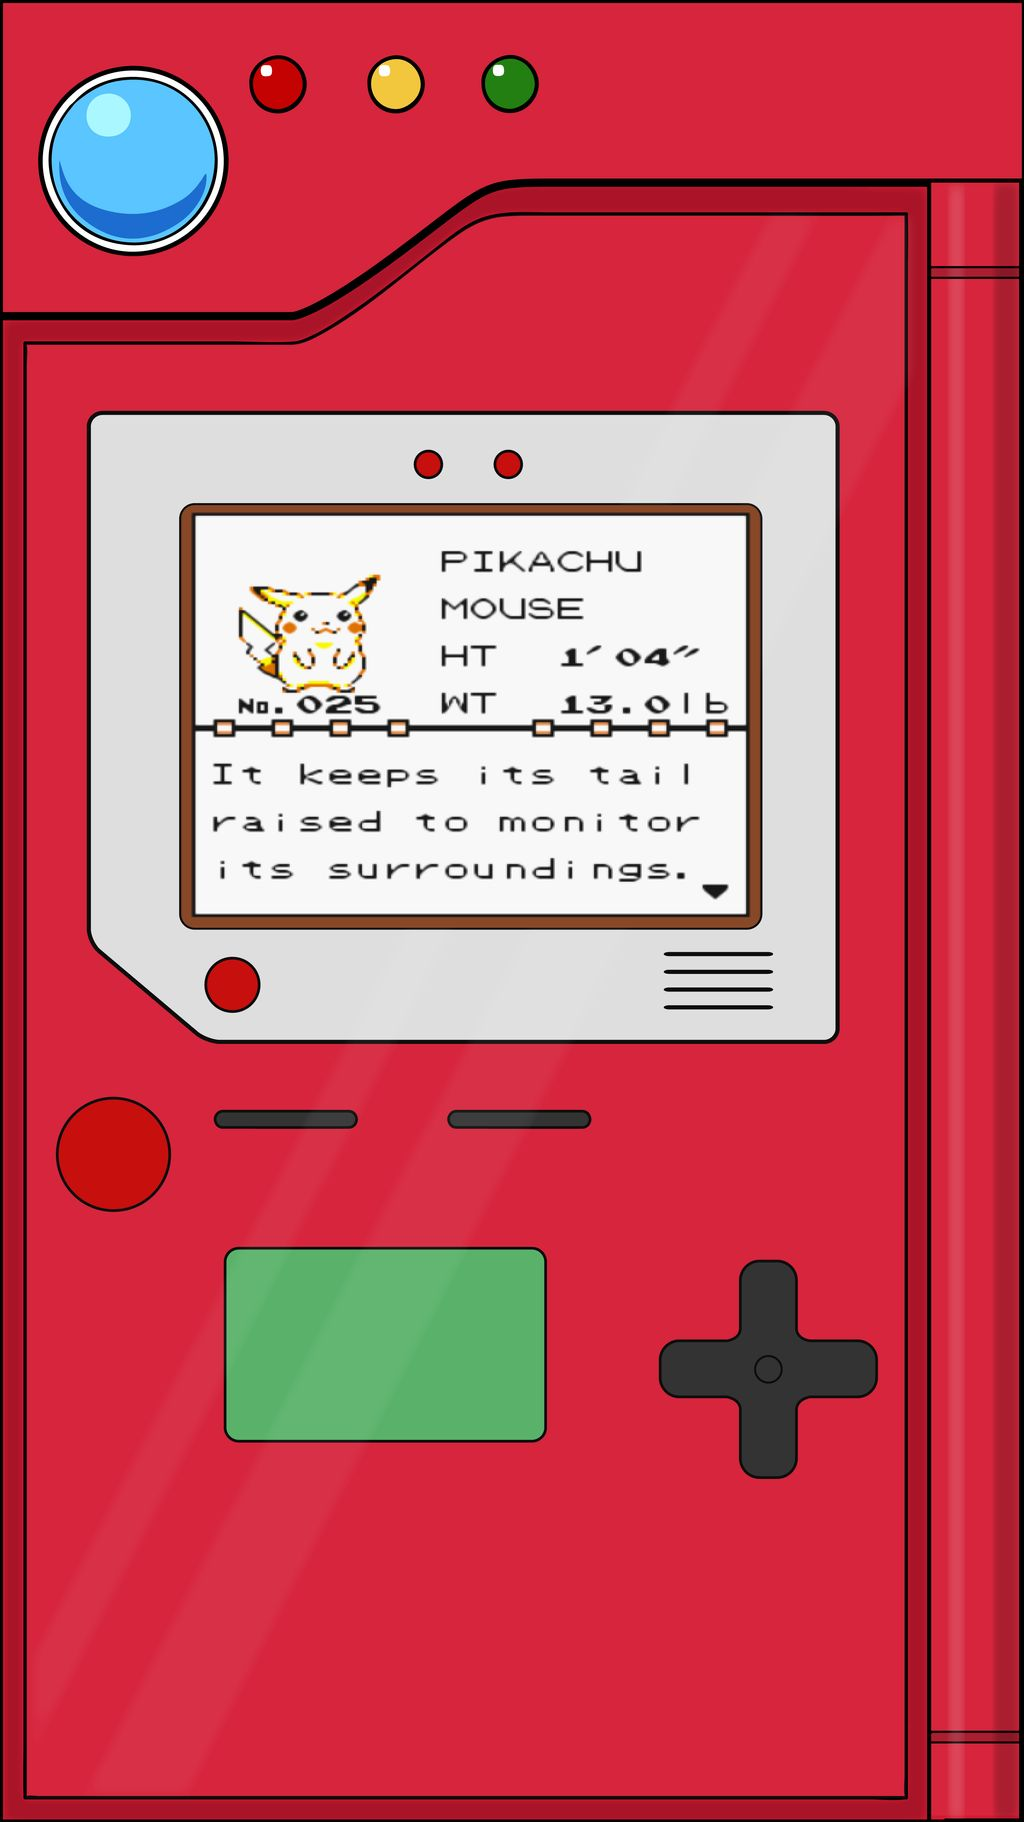
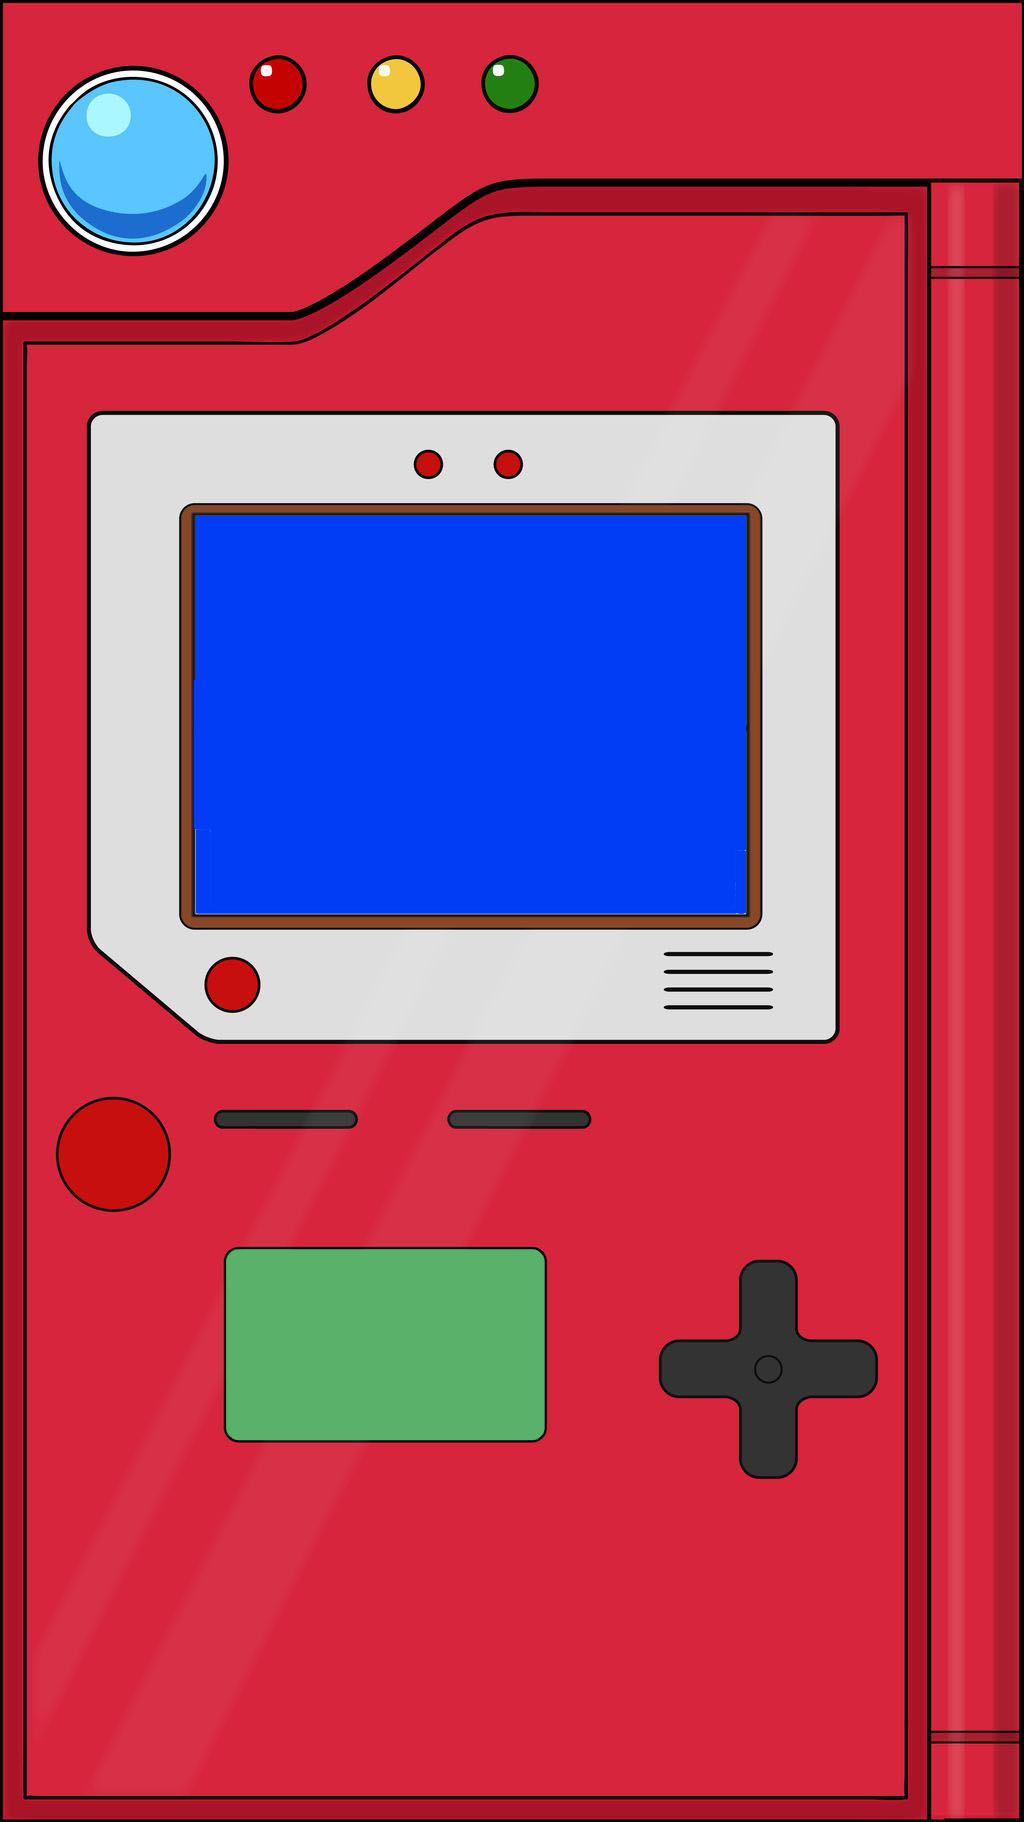
Updated color output

Changed region(s): [[0.1875, 0.2766, 0.75, 0.5225], [0.875, 0.9528, 0.9062, 0.9835]]

diff --git a/pokedex/pokedex.py b/pokedex/pokedex.py
@@ -26,36 +26,39 @@ class PokeGUI:
         self.pokeimg_frame.place(relx=0.285, rely=0.28, relwidth=0.19, relheight=0.11, anchor='n')
 
         # label for pokemon image frame
-        self.pokeimg_label = None
+        self.pokeimg_label = tk.Label(self.pokeimg_frame, anchor='w', bg="#013df5")
+        # must keep a reference per https://effbot.org/tkinterbook/photoimage.htm
+        self.pokeimg_label.image = ""
+        self.pokeimg_label.place(relwidth=1, relheight=1)
 
         # container for info frame
         self.info_frame = tk.Frame(self.root)
         self.info_frame.place(relx=0.55, rely=0.30, relwidth=0.32, relheight=0.1, anchor='n')
 
         # label for info frame
-        self.info_label = tk.Label(self.info_frame, bg="red", font=('Courier New', 14), anchor=tk.NW, justify='left')
+        self.info_label = tk.Label(self.info_frame, bg="#013df5", font=('Courier New', 14, 'bold'), anchor=tk.NW, justify='left')
         self.info_label.place(relwidth=1, relheight=1)
 
         # container for abilities frame
         self.abilities_frame = tk.Frame(self.root)
-        self.abilities_frame.place(relx=0.45, rely=0.39, relwidth=0.525, relheight=0.10, anchor='n')
+        self.abilities_frame.place(relx=0.46, rely=0.39, relwidth=0.515, relheight=0.10, anchor='n')
 
         # label for abilities frame
-        self.abilities_label = tk.Label(self.abilities_frame, bg="yellow", font=('Courier New', 14), anchor=tk.NW, justify='left', wraplength=220)
+        self.abilities_label = tk.Label(self.abilities_frame, bg="#013df5", font=('Courier New', 14, 'bold'), anchor=tk.NW, justify='left', wraplength=220)
         self.abilities_label.place(relwidth=1, relheight=1)
 
         # container for text entry field
-        self.mid_frame = tk.Frame(self.root)
+        self.mid_frame = tk.Frame(self.root, bg="#5ab16a")
         self.mid_frame.place(relx=0.37, rely=0.685, relwidth=0.29, relheight=0.095, anchor='n')
 
-        self.entry = tk.Entry(self.mid_frame, font=('Courier New', 15))
+        self.entry = tk.Entry(self.mid_frame, font=('Courier New', 15), bg="#5ab16a", highlightthickness=0, justify="center")
         self.entry.place(relwidth=1, relheight=1)
 
         # container for search button
         self.lower_frame = tk.Frame(self.root)
         self.lower_frame.place(relx=0.37, rely=0.80, relwidth=0.3, relheight=0.04, anchor='n')
 
-        self.button = tk.Button(self.lower_frame, text="Search", font=('Courier New', 15), command=lambda: APIHandler.get_data(self, self.entry.get()))
+        self.button = tk.Button(self.lower_frame, text="Search", font=('Courier New', 15, "bold"), command=lambda: APIHandler.get_data(self, self.entry.get()))
         self.button.place(relheight=1, relwidth=1)
 
         # # container for error msg frame
@@ -104,21 +107,14 @@ class APIHandler:
                 gui.info_label['text'] = info
 
                 img_url = pokemon['sprites']['front_default']
-                print(img_url)
-
                 img_response = requests.get(img_url)
                 img_data = img_response.content
-                # poke_img = ImageTk.PhotoImage(Image.open(BytesIO(img_data)))
-
                 poke_img = Image.open(BytesIO(img_data))
                 resized_img = poke_img.resize((80, 80), Image.ANTIALIAS)
                 poke_img = ImageTk.PhotoImage(resized_img)
 
-                gui.pokeimg_label = tk.Label(gui.pokeimg_frame, bg="blue", anchor='w', image=poke_img)
-
-                # must keep a reference per https://effbot.org/tkinterbook/photoimage.htm
+                gui.pokeimg_label['image'] = poke_img
                 gui.pokeimg_label.image = poke_img
-                gui.pokeimg_label.place(relwidth=1, relheight=1)
 
                 abilities = "Abilities:"
                 for index in range(len(pokemon['abilities'])):
